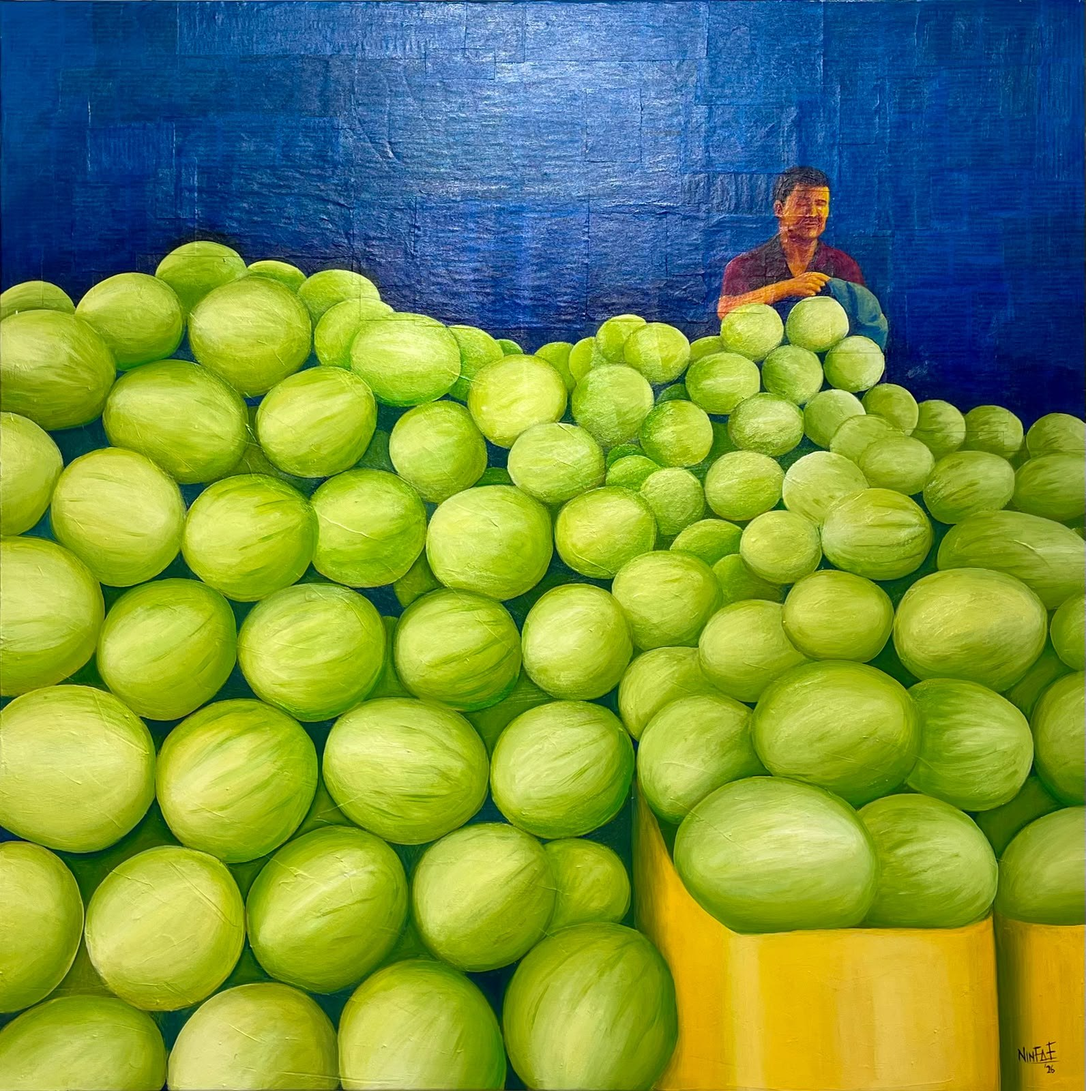
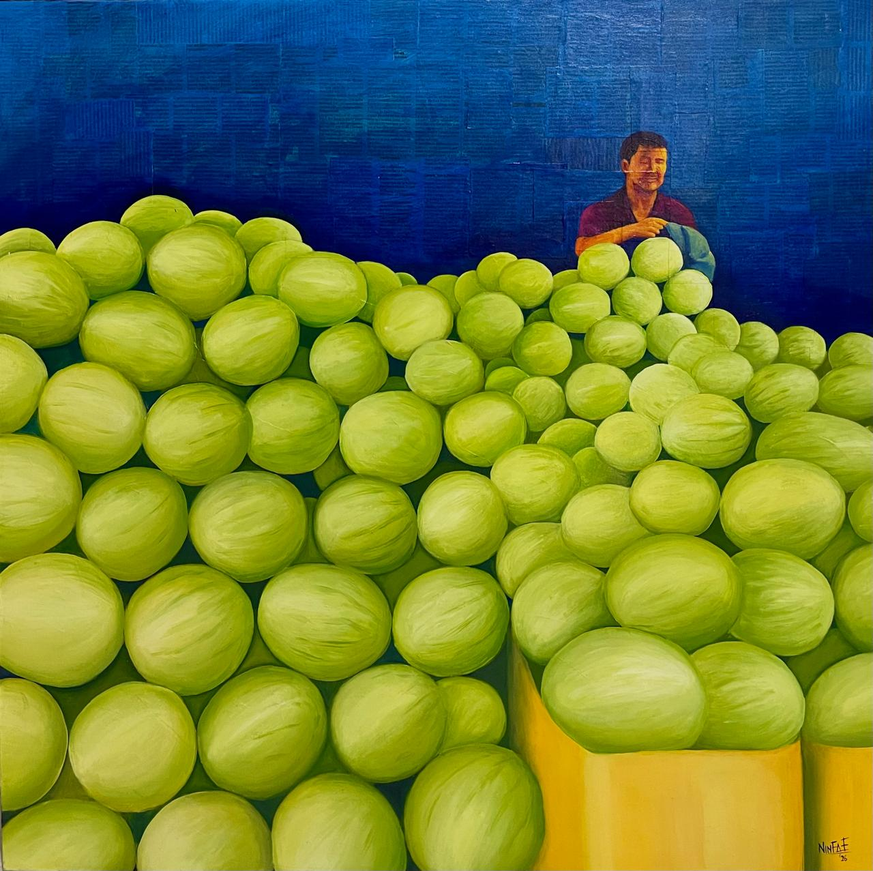
Add Shop button to nav linking to Gumroad store; update Temporada photo
- New "Shop" / "Tienda" nav link (accent pill) pointing to
  ninfaespinoza.gumroad.com (wallpaper packs)
- Replace Temporada artwork image with the glare-free version

diff --git a/index.html b/index.html
@@ -34,6 +34,7 @@
       <a href="#cv" data-es='CV'>CV</a>
       <a href="#publications" data-es='Publicaciones'>Publications</a>
       <a href="#contact" data-es='Contacto'>Contact</a>
+      <a href="https://ninfaespinoza.gumroad.com" target="_blank" rel="noopener" class="nav-shop" data-es='Tienda'>Shop</a>
       <div class="langsw" aria-label="Idioma / Language">
         <button id="btn-es" type="button" data-lang="es">ES</button>
         <button id="btn-en" type="button" data-lang="en">EN</button>

diff --git a/style.css b/style.css
@@ -92,6 +92,19 @@ a { color: var(--accent); }
   border-bottom-color: var(--accent);
 }
 
+/* botón Shop: resalta como llamada a la tienda */
+.site-header nav a.nav-shop {
+  color: var(--accent);
+  border: 1px solid var(--accent);
+  border-radius: 3px;
+  padding: 0.3rem 0.7rem;
+}
+.site-header nav a.nav-shop:hover {
+  background: var(--accent);
+  color: var(--bg);
+  border-color: var(--accent);
+}
+
 /* lado derecho del encabezado: menú + selector de idioma */
 .header-right {
   display: flex;
